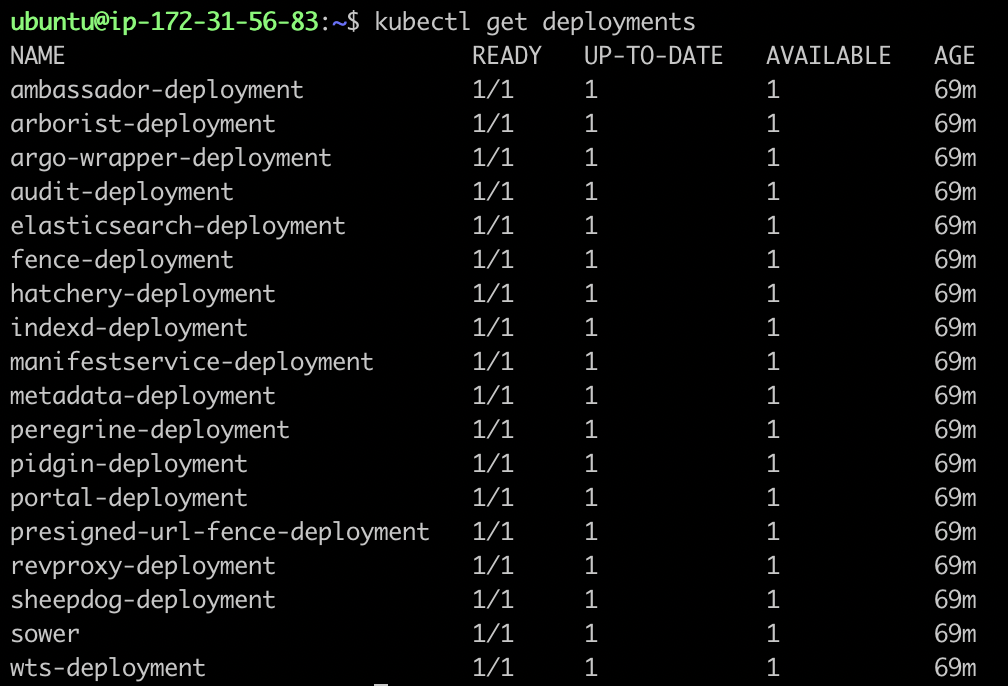
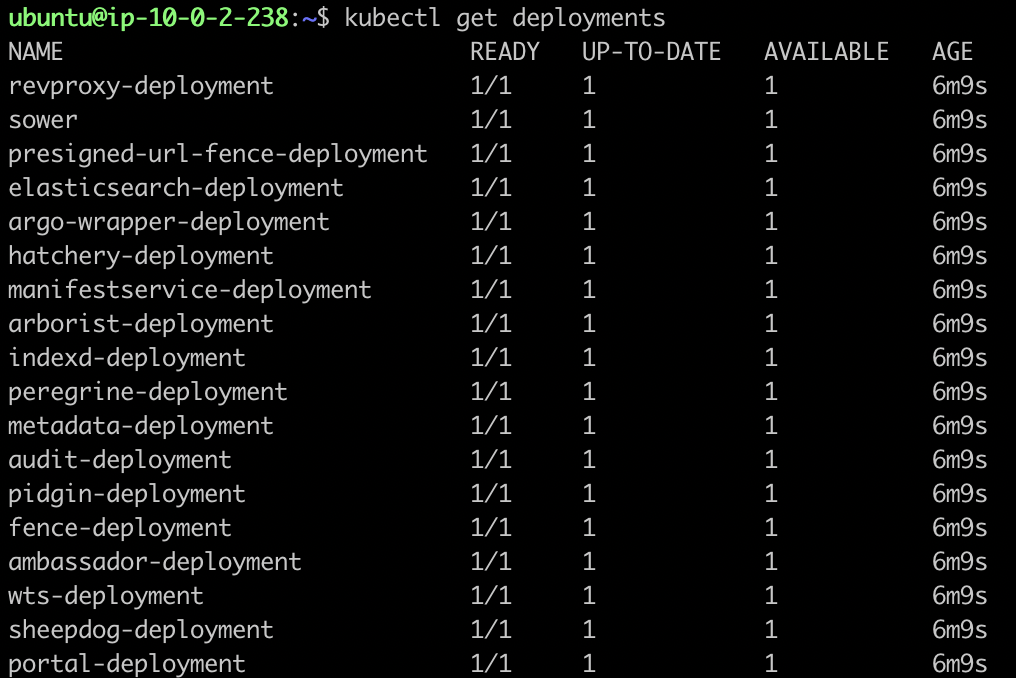
Added Grafana objects to cluster

diff --git a/README.md b/README.md
@@ -146,14 +146,20 @@ sudo sysctl -w vm.max_map_count=262144
 ``` 
 This setting will only last for the duration of the session. The host machine will be reset to the original value if it gets rebooted. For this change to be set permanently on the host machine, the `/etc/sysctl.conf` file needs to be edited with `vm.max_map_count=262144`. To see the current value, run `/sbin/sysctl vm.max_map_count`. More details can be found on the [official Elasticsearch website](https://www.elastic.co/guide/en/elasticsearch/reference/current/vm-max-map-count.html).   
 
+Some of the microservices require the `uwsgi-plugin` for Python 3. To install it, run the following:
+```bash
+sudo apt update  
+sudo apt install uwsgi-plugin-python3 
+```
+
 Before performing a `helm install`, we need to create a `values.yaml` file. This file should be inside the root and contain the contents of the `values.yaml` file that can be found in the root of this repository. Now the Helm installation can begin by running:
 ```bash
 helm upgrade --install gen3-dev gen3/gen3 -f gen3/values.yaml 
 ```
 In the above command, `gen3-dev` is the name of the release of the helm deployment. If the installation is successful, then a message similar to the following should be displayed in the terminal:
 ```bash
-NAME: local-gen3
-LAST DEPLOYED: Mon Nov 13 14:27:49 2023
+NAME: gen3-dev
+LAST DEPLOYED: Tue Nov 14 13:27:49 2023
 NAMESPACE: default
 STATUS: deployed
 REVISION: 1
@@ -163,9 +169,9 @@ If all went well, we should see the `revproxy-dev` deployment up and running wit
 kubectl get ingress
 ```
 The output should look similar to this:
-| NAME          | CLASS     | HOSTS           | ADDRESS       | PORTS   | AGE |
-| ------------- | --------- | --------------- | ------------- | ------- | --- |
-| revproxy-dev  | nginx     | gen3local.co.za | 192.168.49.2  | 80, 443 | 23s |
+| NAME          | CLASS   | HOSTS           | ADDRESS    | PORTS   | AGE |
+| ------------- | ------- | --------------- | ---------- | ------- | --- |
+| revproxy-dev  | traefik | gen3local.co.za | 10.0.2.238 | 80, 443 | 34s |
 
 The list of deployments can be seen by running:
 ```bash
@@ -173,6 +179,38 @@ kubectl get deployments
 ```    
 
 ![Gen3 services deployed](/public/assets/images/gen3-deployments.png "Gen3 services deployed")  
+
+### Grafana OSS in Kubernetes (Optional)   
+Grafana open source software (OSS) allows for the querying, visualising, alerting on, and exploring of metrics, logs, and traces wherever they are stored. Graphs and visualisations can be created from time-series database (TSDB) data with the tools that are provided by Grafana OSS. We'll be using the [Grafana documentation](https://grafana.com/docs/grafana/latest/setup-grafana/installation/kubernetes/) to guide us in installing Grafana in our k8s cluster.   
+
+To create a namespace for Grafana, run the following command:
+```bash
+kubectl create namespace gen3-grafana
+```
+We'll create a `grafana.yaml` file which will contain the blueprint for a persistent volume claim (pvc), a service of type loadbalancer, and a deployment. This file can be found in the `gen3` directory of this repo. To create these resources, we need to apply the manifest as follows:
+```bash
+kubectl apply -f gen3/grafana.yaml --namespace=gen3-grafana
+```
+To get all information about the Grafana deplyment, run:
+```bash
+kubectl get all --namespace=gen3-grafana
+```
+![Grafana k8s Objects](/public/assets/images/grafana-k8s-objects.png "Grafana k8s Objects")  
+
+The `grafana` service should have an **EXTERNAL-IP**. This IP can be used to access the Grafana sign-in page in the browser. If there is no **EXTERNAL_IP**, then port-forwarding can be performed like this:
+```bash
+kubectl port-forward service/grafana 3000:3000 --namespace=gen3-grafana
+```
+Then the Grafana sign-in page can be accessed on `http://localhost:3000`. Use `admin` for both the username and the password.   
+
+Since we are working on an Amazon EC2 instance, we would need to make use of the _auto-assigned IP address_ of the EC2 instance instead of localhost.   
+![Grafana Login Page](/public/assets/images/grafana-login-page.png "Grafana Login Page")   
+
+After logging in, we are free to explore the various features that Grafana offers...
+![Grafana Landing Page](/public/assets/images/grafana-landing-page.png "Grafana Landing Page")   
+
+**NOTE:** For access from a browser, we need to ensure that the inbound rules of the security group assigned to this EC2 instance allows for traffic to access the port 3000.
+![Security Group Inbound Rules](/public/assets/images/security-group-inbound-rules.png "Security Group Inbound Rules")  
 
 ### Docker (Optional)
 Let us go through the steps to install [Docker](https://docs.docker.com/get-started/overview/). We'll begin by doing a general software dependency update:
